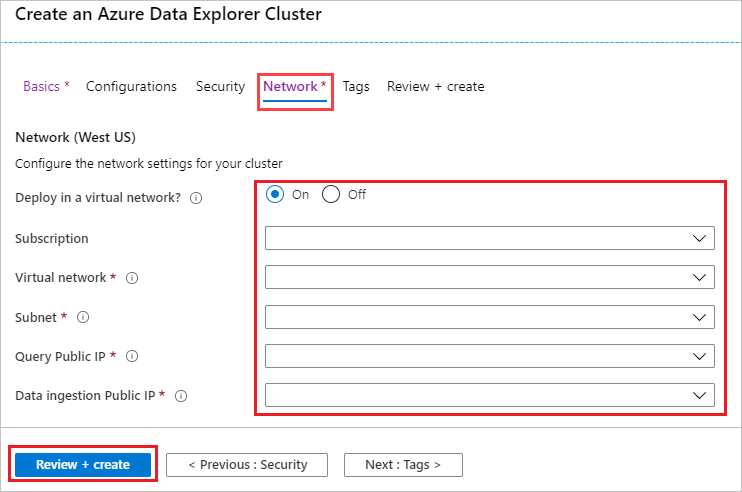
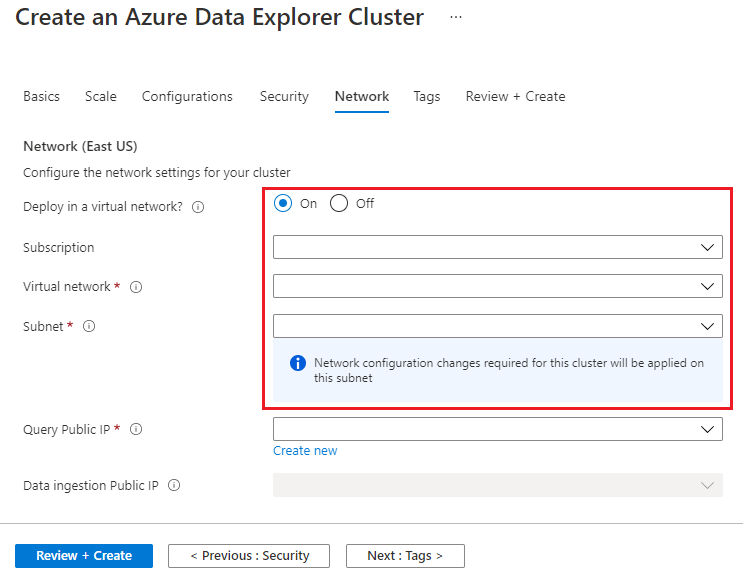
vnet:Update docs for subnet delegation

diff --git a/data-explorer/vnet-create-cluster-portal.md b/data-explorer/vnet-create-cluster-portal.md
@@ -20,82 +20,6 @@ Azure Data Explorer supports deploying a cluster into a subnet in your virtual n
 * If you don't have an Azure subscription, create a [free Azure account](https://azure.microsoft.com/free/) before you begin.
 * Sign in to the [Azure portal](https://portal.azure.com/).
 
-## Create Network Security Group (NSG)
-
-[Network Security Groups (NSG)](/azure/virtual-network/security-overview) provide the ability to control network access within a VNet. Azure Data Explorer can be accessed using two endpoints HTTPs (443) and TDS (1433). The following NSG rules must be configured to allow access to these endpoints for management, monitoring, and proper operation of your cluster.
-
-To create the network security group:
-
-1. Select the **+ Create a resource** button in the upper-left corner of the portal.
-1. Search for *Network Security Group*.
-1. Under **Network Security Group**, at the bottom of the screen, select **Create**.
-1. In the **Create network security group** window, fill out the following information.
-
-   ![Create NSG form](media/vnet-create-cluster-portal/network-security-group.png)
-
-    **Setting** | **Suggested value** | **Field description**
-    |---|---|---|
-    | Subscription | Your subscription | Select the Azure subscription that you want to use for your cluster.|
-    | Resource group | Your resource group | Use an existing resource group or create a new resource group. |
-    | Name | AzureDataExplorerNsg | Choose a name that identifies your Network Security Group (NSG) in the resource group.  |
-    | Region | *West US* | Select the region that best meets your needs.
-    | | | |
-
-1. Select **Review + create** to review your cluster details, and **Create** to provision the cluster.
-
-1. When the deployment is complete, select **Go to resource**.
-
-    ![Go to resource](media/vnet-create-cluster-portal/notification-nsg.png)
-
-1. In the **Inbound security rules** tab, select **+Add**.
-1. In the **Add inbound security rule** window, fill out the following information.
-
-    ![Create NSG inbound rule form](media/vnet-create-cluster-portal/nsg-inbound-rule.png)
-
-    **Setting** | **Suggested value** 
-    |---|---|
-    | Source | ServiceTag
-    | Source service tag | AzureDataExplorerManagement
-    | Source port ranges | *
-    | Destination | VirtualNetwork
-    | Destination port ranges | *
-    | Protocol | TCP
-    | Action | Allow
-    | Priority | 100
-    | Name | AllowAzureDataExplorerManagement
-    | | |
-    
-1. Repeat the previous two steps for all inbound and outbound dependencies according to [dependencies for VNet deployment](vnet-deployment.md#dependencies-for-vnet-deployment). Alternatively, outbound rules can be replaced with single rule to allow *Internet* for ports 443 and 80.
-    
-    The NSG rules for inbound and outbound dependencies should look like this:
-
-    ![NSG rules](media/vnet-create-cluster-portal/nsg-rules.png)
-
-## Create public IP addresses
-
-To create the query (Engine) public IP addresses:
-
-1. Select the **+ Create a resource** button in the upper-left corner of the portal.
-1. Search for *Public IP address*.
-1. Under **Public IP address**, select **Create**.
-1. In the **Create public IP address** pane, complete the following information.
-   
-   ![Create public IP form](media/vnet-create-cluster-portal/public-ip-blade.png)
-
-    **Setting** | **Suggested value** | **Field description**
-    |---|---|---|
-    | IP Version | IPv4 | Select the IP version. We only support IPv4.|
-    | Sku | Standard | We require **Standard** for query (Engine) URI endpoint. |
-    | Name | engine-pip | Choose a name that identifies your public IP address in the resource group.
-    | Subscription | Your subscription | Select the Azure subscription that you want to use for your public IP.|
-    | Resource group | Your resource group | Use an existing resource group or create a new resource group. |
-    | Location | *West US* | Select the region that best meets your needs.
-    | | | |
-
-1. Select **Create** to create the public IP address.
-
-1. To create the ingestion (Data Management) public IP address, follow the same instructions.
-
 ## Create Virtual Network and subnet
 
 To create the virtual network and subnet:
@@ -126,11 +50,11 @@ To create the virtual network and subnet:
     ![Subnets blade](media/vnet-create-cluster-portal/subnets.png)
 
 1. In your **default** subnet window:
-    1. Select your **Network Security Group** from the drop-down menu. 
-    1. Select your network security group name, in this case **AzureDataExplorerNsg**. 
+    1. Select **Subnet delegation** drop-down menu
+    1. Select  **Microsoft.Kusto/clusters** 
     1. **Save**
-
-    ![Configure subnet](media/vnet-create-cluster-portal/subnet-nsg.png)
+    
+    ![Configure subnet](media/vnet-create-cluster-portal/vnet-delegate-subnet.png)
 
 ## Create a cluster
 
@@ -145,10 +69,19 @@ Create an Azure Data Explorer cluster with a defined set of compute and storage 
     | Subscription | Your subscription | Select the Azure subscription that you want to use for networking resources.|
     | Virtual Network | AzureDataExplorerVnet | Choose the virtual network created in the previous steps.
     | Subnet | default | Choose the subnet created in the previous steps.
-    | Query Public IP | engine-pip | Choose the query public IP created in the previous steps.
-    | Data ingestion Public IP | dm-pip | Choose the ingestion public IP created in the previous steps.
-    | | | |
 
+1. Create Query Public IP:
+    1. Select **Create new**
+    1. In **Create  Public IP** window, provide the following details:
+    
+    ![Create cluster vnet form](media/vnet-create-cluster-portal/vnet-create-public-ip.png)
+
+    **Setting** | **Suggested value** | **Field description**
+    |---|---|---|
+    | Name | Engine-public-ip | The name of the public ip address resource.|
+    | Resource group | Your resource group | Select the resource group that you want to use for creating public ip.|
+
+1. Do the same steps for **Data ingestion Public IP**
 1. Select **Review + create** to create your cluster.
 1. When the deployment is complete, select **Go to resource**.
 

diff --git a/data-explorer/vnet-deployment.md b/data-explorer/vnet-deployment.md
@@ -71,7 +71,7 @@ Create a [Private Endpoint](/azure/private-link/private-endpoint-overview) to re
 
 ### Network Security Groups configuration
 
-[Network Security Groups (NSG)](/azure/virtual-network/security-overview) provide the ability to control network access within a VNet. Azure Data Explorer can be accessed using two endpoints: HTTPs (443) and TDS (1433). The following NSG rules must be configured to allow access to these endpoints for management, monitoring, and proper operation of your cluster. Additional rules depend on your security guidelines.
+[Network Security Groups (NSG)](/azure/virtual-network/security-overview) provide the ability to control network access within a VNet, Azure Data Explorer automatically applies required network security rules below in order to operate properly using [subnet delegation](/azure/virtual-network/subnet-delegation-overview) mechanism, you must delegate subnet to ```Microsoft.Kusto/clusters``` before creating cluster in subnet.
 
 #### Inbound NSG configuration
 
